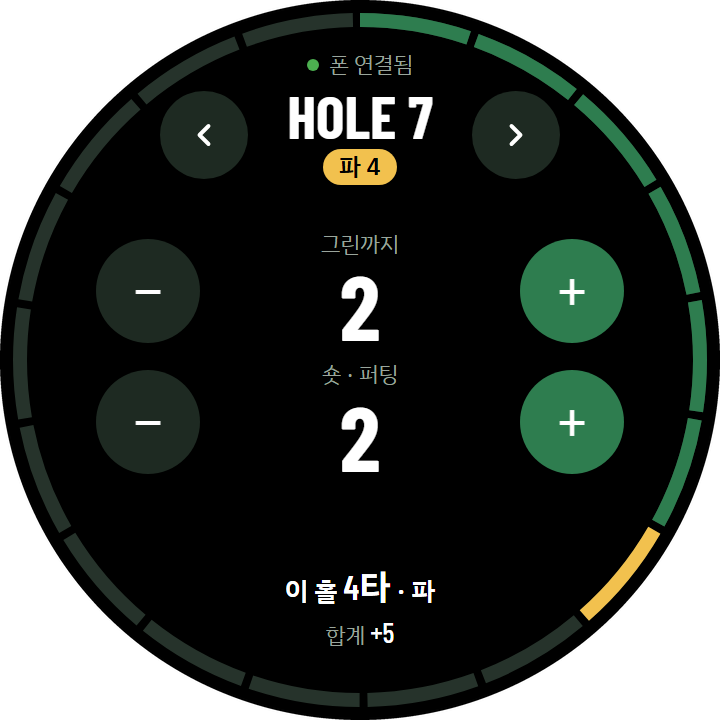
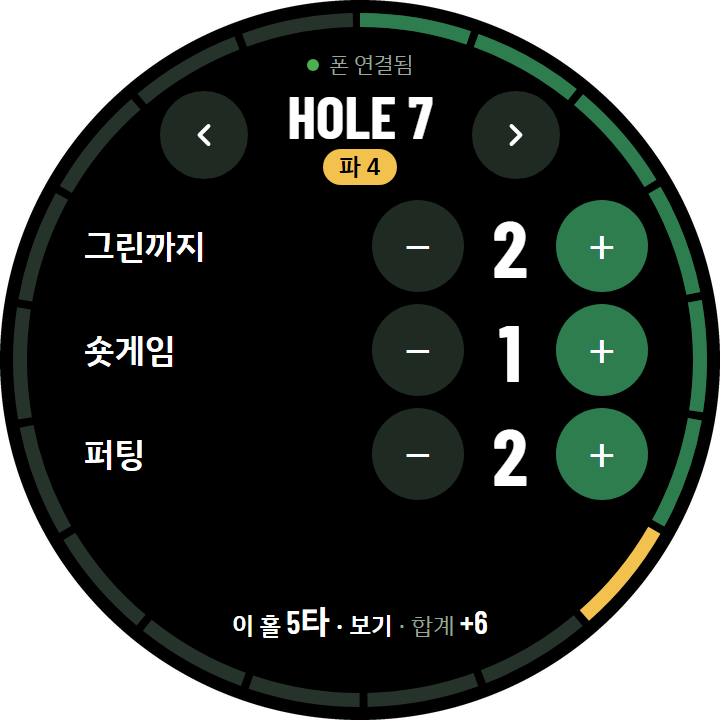
docs: 사용 설명서 워치 항목을 그린까지·숏게임·퍼팅 세 줄 기준으로 수정
- watch-play.png를 새 시안으로 다시 렌더
- 워치 홀 기록 화면 설명에 숏게임 줄과 한 줄 요약 반영

Claude-Session: https://claude.ai/code/session_01X7KasCSYPtL7EZstLv3KgP

diff --git a/docs/user-guide/index.html b/docs/user-guide/index.html
@@ -616,7 +616,7 @@
         </div>
         <p class="note">※ 워치 화면은 디자인 도안 이미지예요. 실제 기기에서는 글자 크기와 간격이 조금 다를 수 있어요.</p>
         <ul>
-          <li><strong>홀 기록 화면</strong> — 위쪽에서 ◀ ▶로 홀을 넘기고, <strong>그린까지</strong>와 <strong>숏 · 퍼팅</strong> 숫자 옆의 <strong>− / +</strong>로 타수를 올리고 내려요. 아래쪽에는 <strong>"이 홀 4타 · 파"</strong> 같은 이 홀 결과와 <strong>합계</strong>(파 대비)가 바로 계산돼요. 워치의 <strong>＋</strong>는 퍼팅으로 기록돼요 — 숏어프로치를 따로 나누고 싶으면 폰에서 입력해요.</li>
+          <li><strong>홀 기록 화면</strong> — 위쪽에서 ◀ ▶로 홀을 넘기고, <strong>그린까지 · 숏게임 · 퍼팅</strong> 세 줄의 <strong>− / +</strong>로 타수를 올리고 내려요. 숏게임은 폰의 "숏어프로치"와 같은 타수라서, 폰에서 입력한 것도 워치에 보이고 워치에서 올린 것도 폰에 반영돼요. 아래쪽 한 줄에는 <strong>"이 홀 5타 · 보기 · 합계 +6"</strong>처럼 이 홀 결과와 <strong>합계</strong>(파 대비)가 바로 계산돼요.</li>
           <li><strong>홀 이동 화면</strong> — ◀ ▶를 누른 직후 2.5초쯤 뜨고, 화면을 누르면 바로 닫혀요. 폰에서 홀을 바꿀 때는 뜨지 않아요.</li>
           <li><strong>폰과 멀어졌을 때</strong> — 폰을 카트에 두고 멀리 가면 맨 위에 호박색 <strong>"폰 연결 끊김"</strong>이 떠요. 그동안 눌러도 워치 화면에는 타수와 <strong>홀 이동까지 바로 반영</strong>되고, 다시 가까워지면 눌렀던 순서대로 폰에 반영돼요.</li>
           <li><strong>와치 GPS</strong> — 코스 선택 화면에서 <strong>"와치 GPS 켜기"</strong>를 켜고 시작하면 워치가 자체 GPS로 샷 위치를 기록해요 (위치 권한을 물어보면 허용해주세요). 위치를 못 잡으면 워치가 진동하고 <strong>"GPS 신호 없음"</strong>이 잠깐 떠요.</li>

diff --git a/docs/user-guide.md b/docs/user-guide.md
@@ -131,7 +131,7 @@
 
 *(워치 화면은 디자인 도안 이미지예요. 실제 기기에서는 글자 크기와 간격이 조금 다를 수 있어요.)*
 
-- **홀 기록 화면** — 위쪽에서 ◀ ▶로 홀을 넘기고, **그린까지** 와 **숏 · 퍼팅** 숫자 옆의 **− / +** 로 타수를 올리고 내려요. 아래쪽에는 **"이 홀 4타 · 파"** 같은 이 홀 결과와 **합계**(파 대비)가 바로 계산돼요. 워치의 **＋**는 퍼팅으로 기록돼요 — 숏어프로치를 따로 나누고 싶으면 폰에서 입력해요.
+- **홀 기록 화면** — 위쪽에서 ◀ ▶로 홀을 넘기고, **그린까지 · 숏게임 · 퍼팅** 세 줄의 **− / +** 로 타수를 올리고 내려요. 숏게임은 폰의 "숏어프로치"와 같은 타수라서, 폰에서 입력한 것도 워치에 보이고 워치에서 올린 것도 폰에 반영돼요. 아래쪽 한 줄에는 **"이 홀 5타 · 보기 · 합계 +6"**처럼 이 홀 결과와 **합계**(파 대비)가 바로 계산돼요.
 - **홀 이동 화면** — ◀ ▶를 누른 직후 2.5초쯤 뜨고, 화면을 누르면 바로 닫혀요. 폰에서 홀을 바꿀 때는 뜨지 않아요.
 - **폰과 멀어졌을 때** — 폰을 카트에 두고 멀리 가면 맨 위에 호박색 **"폰 연결 끊김"**이 떠요. 그동안 눌러도 워치 화면에는 타수와 **홀 이동까지 바로 반영**되고, 다시 가까워지면 눌렀던 순서대로 폰에 반영돼요.
 - **와치 GPS** — 코스 선택 화면에서 **"와치 GPS 켜기"**를 켜고 시작하면 워치가 자체 GPS로 샷 위치를 기록해요 (위치 권한을 물어보면 허용해주세요). 위치를 못 잡으면 워치가 진동하고 **"GPS 신호 없음"**이 잠깐 떠요.
